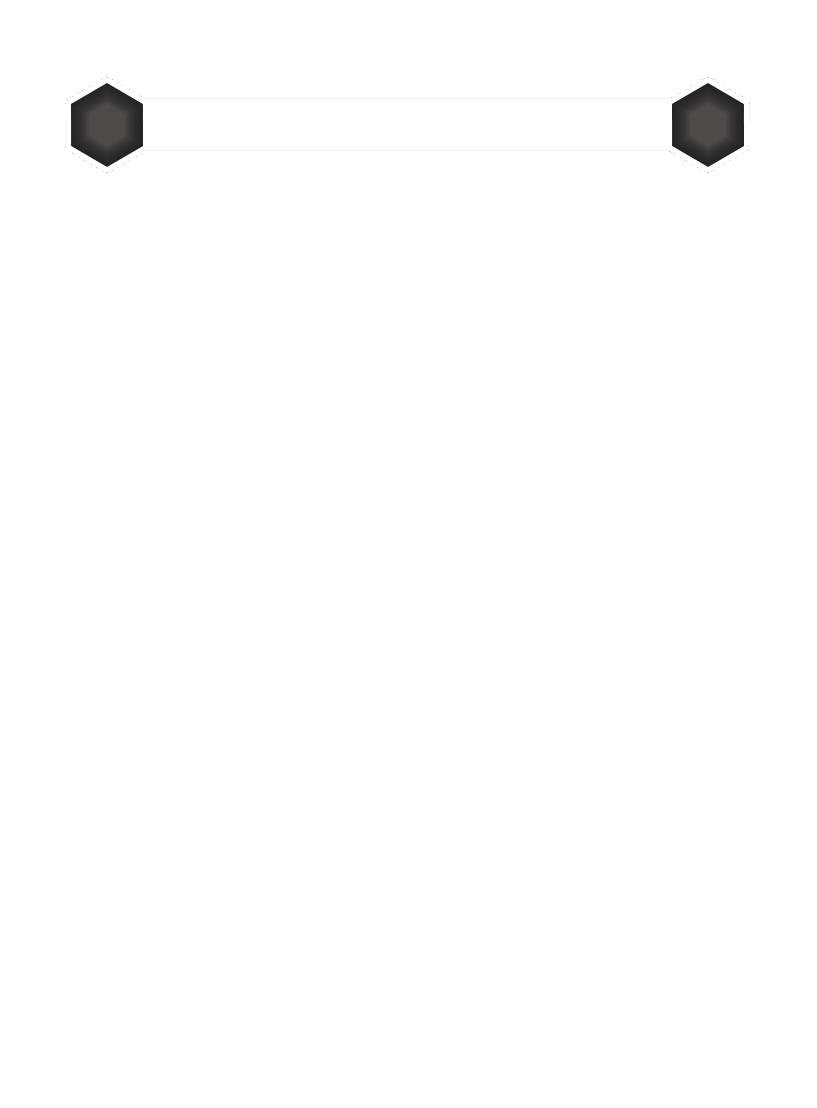
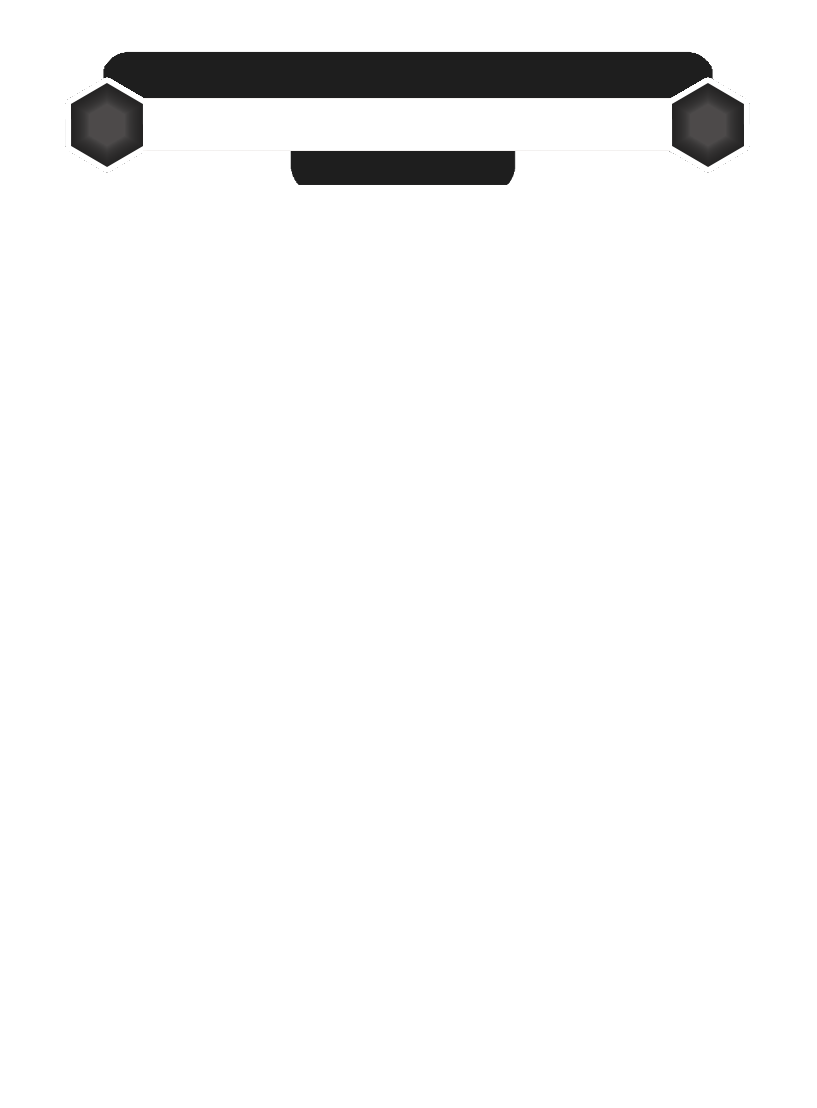
Updated card layout, added summary

Changed region(s): [[0.1224, 0.0307, 0.8874, 0.0921], [0.3366, 0.1227, 0.6426, 0.1841]]

diff --git a/Card Maker/Screens/MainWindow.xaml b/Card Maker/Screens/MainWindow.xaml
@@ -20,12 +20,12 @@
         </GroupBox>
         <GroupBox Header="Critical Effects" Margin="10,0,0,46" HorizontalAlignment="Left" Width="234" Height="212" VerticalAlignment="Bottom" FontWeight="Bold">
             <Grid>
-                <Label Content="Critical Success" HorizontalAlignment="Left" Margin="10,10,0,0" VerticalAlignment="Top" Padding="5,0,5,5" FontWeight="Normal"/>
-                <TextBox x:Name="tbCriticalSucces" Height="23" Margin="10,36,10,0" TextWrapping="Wrap" VerticalAlignment="Top" SpellCheck.IsEnabled="True" Padding="0,0,0,5" FontWeight="Normal" TextChanged="tbCriticalSucces_TextChanged" TabIndex="6"/>
-                <Label Content="Critical Failure" HorizontalAlignment="Left" Margin="10,64,0,0" VerticalAlignment="Top" Padding="5,0,5,5" FontWeight="Normal"/>
-                <TextBox x:Name="tbCriticalFailure" Height="23" Margin="10,90,10,0" TextWrapping="Wrap" VerticalAlignment="Top" SpellCheck.IsEnabled="True" Padding="0,0,0,5" FontWeight="Normal" TextChanged="tbCriticalFailure_TextChanged" TabIndex="7"/>
-                <ComboBox x:Name="cbbCritIcons" HorizontalAlignment="Left" Margin="10,144,0,0" VerticalAlignment="Top" Width="202" Padding="6,3,5,5" FontWeight="Normal" SelectionChanged="cbbCritIcons_SelectionChanged" TabIndex="8"/>
-                <Label Content="Icon(s)" HorizontalAlignment="Left" Margin="10,118,0,0" VerticalAlignment="Top" Padding="5,0,5,5" FontWeight="Normal"/>
+                <Label x:Name="lbFirstBar" Content="First Bar" HorizontalAlignment="Left" Margin="10,64,0,0" VerticalAlignment="Top" Padding="5,0,5,5" FontWeight="Normal"/>
+                <TextBox x:Name="tbFirstBar" Height="23" Margin="10,90,10,0" TextWrapping="Wrap" VerticalAlignment="Top" SpellCheck.IsEnabled="True" Padding="0,0,0,5" FontWeight="Normal" TextChanged="tbFirstBar_TextChanged" TabIndex="6"/>
+                <Label x:Name="lbSecondBar" Content="Second Bar" HorizontalAlignment="Left" Margin="10,118,0,0" VerticalAlignment="Top" Padding="5,0,5,5" FontWeight="Normal"/>
+                <TextBox x:Name="tbSecondBar" Height="23" Margin="10,144,10,0" TextWrapping="Wrap" VerticalAlignment="Top" SpellCheck.IsEnabled="True" Padding="0,0,0,5" FontWeight="Normal" TextChanged="tbSecondBar_TextChanged" TabIndex="7"/>
+                <ComboBox x:Name="cbbCritIcons" HorizontalAlignment="Left" Margin="10,35,0,0" VerticalAlignment="Top" Width="202" Padding="6,3,5,5" FontWeight="Normal" SelectionChanged="cbbCritIcons_SelectionChanged" TabIndex="8"/>
+                <Label Content="Effect Type" HorizontalAlignment="Left" Margin="10,9,0,0" VerticalAlignment="Top" Padding="5,0,5,5" FontWeight="Normal"/>
             </Grid>
         </GroupBox>
         <GroupBox Header="Roll Type" HorizontalAlignment="Left" Height="149" Margin="10,0,0,263" VerticalAlignment="Bottom" Width="234" FontWeight="Bold">
@@ -38,7 +38,7 @@
         </GroupBox>
         <GroupBox Header="Card Text" HorizontalAlignment="Left" Margin="10,10,0,417" Width="390" FontWeight="Bold">
             <Grid>
-                <TextBox x:Name="tbDescription" TabIndex="1" Margin="10,90,10,117" TextWrapping="Wrap" AcceptsReturn="True" Padding="0,0,0,5" FontWeight="Normal" TextChanged="tbDescription_TextChanged"/>
+                <TextBox x:Name="tbDescription" TabIndex="1" Margin="10,90,10,171" TextWrapping="Wrap" AcceptsReturn="True" Padding="0,0,0,5" FontWeight="Normal" TextChanged="tbDescription_TextChanged"/>
                 <Label Content="Description" HorizontalAlignment="Left" Margin="10,64,0,0" VerticalAlignment="Top" Padding="5,0,5,5" FontWeight="Normal"/>
                 <TextBox x:Name="tbRollTarget" Margin="10,0,10,63" TabIndex="2" TextWrapping="Wrap" AcceptsReturn="True" Height="23" VerticalAlignment="Bottom" Padding="0,0,0,5" FontWeight="Normal" TextChanged="tbRollTarget_TextChanged"/>
                 <ComboBox x:Name="cbbPhase" Margin="10,0,10,10" Height="22" VerticalAlignment="Bottom" Padding="6,3,5,5" TabIndex="3"  FontWeight="Normal" SelectionChanged="cbbPhase_SelectionChanged"/>
@@ -46,6 +46,8 @@
                 <Label Content="Phase" HorizontalAlignment="Left" Margin="10,0,0,37" Padding="5,0,5,5" Height="21" VerticalAlignment="Bottom" FontWeight="Normal"/>
                 <TextBox x:Name="tbCardName" TabIndex="0" Margin="10,36,10,0" TextWrapping="Wrap" AcceptsReturn="True" Padding="0,0,0,5" Height="23" VerticalAlignment="Top" FontWeight="Normal" TextChanged="tbCardName_TextChanged"/>
                 <Label Content="Card Name" HorizontalAlignment="Left" Margin="10,10,0,0" VerticalAlignment="Top" Padding="5,0,5,5" FontWeight="Normal"/>
+                <Label Content="Summary" HorizontalAlignment="Left" Margin="10,183,0,0" VerticalAlignment="Top" Padding="5,0,5,5" FontWeight="Normal"/>
+                <TextBox x:Name="tbSummary" TabIndex="0" Margin="10,209,10,0" TextWrapping="Wrap" AcceptsReturn="True" Padding="0,0,0,5" Height="23" VerticalAlignment="Top" FontWeight="Normal" TextChanged="tbSummary_TextChanged"/>
             </Grid>
         </GroupBox>
         <GroupBox Header="Background" Height="101" Margin="405,10,16,0" VerticalAlignment="Top" FontWeight="Bold">

diff --git a/Card Maker/Screens/MainWindow.xaml.cs b/Card Maker/Screens/MainWindow.xaml.cs
@@ -71,7 +71,7 @@ namespace Card_Maker
 
         private void SetUpCritIcons()
         {
-            foreach (string icons in Enum.GetNames(typeof(CritIcon)))
+            foreach (string icons in Enum.GetNames(typeof(CritBar)))
             {
                 cbbCritIcons.Items.Add(icons);
             }
@@ -187,25 +187,22 @@ namespace Card_Maker
                 graphics.DrawImage(Properties.Resources.CardFrame, 0, 0, cardWidth, cardHeight);
 
                 // Draw Critbar
-                if (!string.IsNullOrWhiteSpace(tbCriticalSucces.Text) ||
-                    !string.IsNullOrWhiteSpace(tbCriticalFailure.Text))
+                if (!string.IsNullOrWhiteSpace(tbFirstBar.Text) ||
+                    !string.IsNullOrWhiteSpace(tbSecondBar.Text))
                 {
-                    graphics.DrawImage(Properties.Resources.CritBar, 0, 0, cardWidth, cardHeight);
-
                     switch (cbbCritIcons.SelectedIndex)
                     {
-                        case (int)CritIcon.D6:
-                            graphics.DrawImage(Properties.Resources.D6Crit, 0, 0, cardWidth, cardHeight);
+                        case (int)CritBar.D6:
+                            graphics.DrawImage(Properties.Resources.CritD6Bar, 0, 0, cardWidth, cardHeight);
                             break;
-                        case (int)CritIcon.Bullseye:
-                            graphics.DrawImage(Properties.Resources.CritIcon, 0, 0, cardWidth, cardHeight);
+                        case (int)CritBar.Positive:
+                            graphics.DrawImage(Properties.Resources.CritGoodBar, 0, 0, cardWidth, cardHeight);
                             break;
-                        case (int)CritIcon.Cross:
-                            graphics.DrawImage(Properties.Resources.XIcon, 0, 0, cardWidth, cardHeight);
+                        case (int)CritBar.Negative:
+                            graphics.DrawImage(Properties.Resources.CritBadBar, 0, 0, cardWidth, cardHeight);
                             break;
-                        case (int)CritIcon.BullseyeAndCross:
-                            graphics.DrawImage(Properties.Resources.CritIcon, 0, 0, cardWidth, cardHeight);
-                            graphics.DrawImage(Properties.Resources.XIcon, 0, 0, cardWidth, cardHeight);
+                        case (int)CritBar.Both:
+                            graphics.DrawImage(Properties.Resources.CritBothBar, 0, 0, cardWidth, cardHeight);
                             break;
                     }
                 }
@@ -242,6 +239,16 @@ namespace Card_Maker
                 }
                 catch { }
 
+                if (!string.IsNullOrWhiteSpace(cardInfo.Summary))
+                {
+                    using (Font NerisBig = new Font("Conthrax Sb", 14, System.Drawing.FontStyle.Bold))
+                    {
+                        SizeF PhaseSize = graphics.MeasureString(SplitCamelCaseExtension.SplitCamelCase(cardInfo.Summary), NerisBig, 817);
+                        graphics.DrawString(SplitCamelCaseExtension.SplitCamelCase(cardInfo.Summary), NerisBig, System.Drawing.Brushes.Gray,
+                            new PointF(cardWidth / 2 - PhaseSize.Width / 2, 62));
+                    }
+                }
+
                 using (Font MainHeading = new Font("Conthrax Sb", 27))
                 {
                     SizeF titleSize = graphics.MeasureString(cardInfo.Name, MainHeading, 500);
@@ -261,14 +268,17 @@ namespace Card_Maker
                     }
                 }
 
-                using (Font NerisBig = new Font("Conthrax Sb", 20, System.Drawing.FontStyle.Regular))
+                using (Font NerisBig = new Font("Conthrax Sb", 12, System.Drawing.FontStyle.Regular))
                 {
                     SizeF PhaseSize = graphics.MeasureString(
     SplitCamelCaseExtension.SplitCamelCase(Enum.GetName(typeof(Phase), cardInfo.Phase)), NerisBig, 500);
                     graphics.DrawString(
                         SplitCamelCaseExtension.SplitCamelCase(Enum.GetName(typeof(Phase), cardInfo.Phase)), NerisBig,
-                        System.Drawing.Brushes.Orange, new PointF(cardWidth / 2 - PhaseSize.Width / 2, 55));
+                        System.Drawing.Brushes.Orange, new PointF(cardWidth / 2 - PhaseSize.Width / 2, 160));
+                }
 
+                using (Font NerisBig = new Font("Conthrax Sb", 20, System.Drawing.FontStyle.Regular))
+                {
                     SizeF rollTargetSize = graphics.MeasureString(tbRollTarget.Text, NerisBig, 500);
                     graphics.DrawString(cardInfo.RollTarget, NerisBig, System.Drawing.Brushes.Orange,
                         new PointF(cardWidth / 2 - rollTargetSize.Width / 2, 585));
@@ -282,13 +292,28 @@ namespace Card_Maker
 
                 using (Font Critical = new Font("Neris Black", 24))
                 {
-                    graphics.DrawString(cardInfo.CriticalSuccess, Critical, System.Drawing.Brushes.White,
-                        new PointF(125, 985));
+                    switch (currentCard.CritIcon)
+                    {
+                        case CritBar.Positive:
+                            graphics.DrawString(cardInfo.CriticalSuccess, Critical, System.Drawing.Brushes.White,
+                                new PointF(125, 1000));
+                            break;
+                        case CritBar.Negative:
+                            graphics.DrawString(cardInfo.CriticalFailure, Critical, System.Drawing.Brushes.White,
+                                new PointF(125, 1000));
+                            break;
+                        case CritBar.Both:
+                            graphics.DrawString(cardInfo.CriticalSuccess, Critical, System.Drawing.Brushes.White,
+                                new PointF(125, 932));
 
-                    //Align right Critical Fail
-                    SizeF critFailSize = graphics.MeasureString(cardInfo.CriticalFailure, Critical, 500);
-                    graphics.DrawString(cardInfo.CriticalFailure, Critical, System.Drawing.Brushes.White,
-                        new PointF(690 - critFailSize.Width, 985));
+                            graphics.DrawString(cardInfo.CriticalFailure, Critical, System.Drawing.Brushes.White,
+                                new PointF(125, 1000));
+                            break;
+                        case CritBar.D6:
+                            graphics.DrawString(cardInfo.CriticalSuccess, Critical, System.Drawing.Brushes.White,
+                                new PointF(125, 1000));
+                            break;
+                    }
                 }
 
                 SaveFile(card);
@@ -457,6 +482,13 @@ namespace Card_Maker
             StartTimer();
         }
 
+
+        private void tbSummary_TextChanged(object sender, TextChangedEventArgs e)
+        {
+            currentCard.Summary = tbSummary.Text;
+            StartTimer();
+        }
+
         private void StartTimer()
         {
             currentInactiveTime = inactiveTime;
@@ -503,19 +535,48 @@ namespace Card_Maker
 
         private void cbbCritIcons_SelectionChanged(object sender, SelectionChangedEventArgs e)
         {
-            currentCard.CritIcon = (CritIcon)Enum.Parse(typeof(CritIcon), cbbCritIcons.SelectedItem.ToString());
+            currentCard.CritIcon = (CritBar)Enum.Parse(typeof(CritBar), cbbCritIcons.SelectedItem.ToString());
+
+            switch (currentCard.CritIcon)
+            {
+                case CritBar.Positive:
+                    lbFirstBar.IsEnabled = true;
+                    tbFirstBar.IsEnabled = true;
+                    tbSecondBar.IsEnabled = false;
+                    tbSecondBar.IsEnabled = false;
+                    break;
+                case CritBar.Negative:
+                    lbFirstBar.IsEnabled = false;
+                    tbFirstBar.IsEnabled = false;
+                    tbSecondBar.IsEnabled = true;
+                    tbSecondBar.IsEnabled = true;
+                    break;
+                case CritBar.Both:
+                    lbFirstBar.IsEnabled = true;
+                    tbFirstBar.IsEnabled = true;
+                    tbSecondBar.IsEnabled = true;
+                    tbSecondBar.IsEnabled = true;
+                    break;
+                case CritBar.D6:
+                    lbFirstBar.IsEnabled = true;
+                    tbFirstBar.IsEnabled = true;
+                    tbSecondBar.IsEnabled = false;
+                    tbSecondBar.IsEnabled = false;
+                    break;
+            }
+
             DrawCard(currentCard);
         }
 
-        private void tbCriticalFailure_TextChanged(object sender, TextChangedEventArgs e)
+        private void tbFirstBar_TextChanged(object sender, TextChangedEventArgs e)
         {
-            currentCard.CriticalFailure = tbCriticalFailure.Text;
+            currentCard.CriticalSuccess = tbFirstBar.Text;
             StartTimer();
         }
 
-        private void tbCriticalSucces_TextChanged(object sender, TextChangedEventArgs e)
+        private void tbSecondBar_TextChanged(object sender, TextChangedEventArgs e)
         {
-            currentCard.CriticalSuccess = tbCriticalSucces.Text;
+            currentCard.CriticalFailure = tbSecondBar.Text;
             StartTimer();
         }
 
@@ -579,12 +640,13 @@ namespace Card_Maker
         private void UpdateFields(Card card)
         {
             tbCardName.Text = card.Name;
-            tbCriticalSucces.Text = card.CriticalSuccess;
-            tbCriticalFailure.Text = card.CriticalFailure;
+            tbFirstBar.Text = card.CriticalSuccess;
+            tbSecondBar.Text = card.CriticalFailure;
             tbRollTarget.Text = card.RollTarget;
             tbRollType.Text = card.RollText;
             tbPath.Text = card.BackgroundPath;
             tbDescription.Text = card.Description;
+            tbSummary.Text = card.Summary;
             SlScale.Value = card.Scale;
 
             cbbCritIcons.SelectedIndex = (int)card.CritIcon;

diff --git a/Card Maker/Properties/Resources.Designer.cs b/Card Maker/Properties/Resources.Designer.cs
@@ -93,9 +93,49 @@ namespace Card_Maker.Properties {
         /// <summary>
         ///   Looks up a localized resource of type System.Drawing.Bitmap.
         /// </summary>
+        internal static System.Drawing.Bitmap CritBadBar {
+            get {
+                object obj = ResourceManager.GetObject("CritBadBar", resourceCulture);
+                return ((System.Drawing.Bitmap)(obj));
+            }
+        }
+        
+        /// <summary>
+        ///   Looks up a localized resource of type System.Drawing.Bitmap.
+        /// </summary>
         internal static System.Drawing.Bitmap CritBar {
             get {
                 object obj = ResourceManager.GetObject("CritBar", resourceCulture);
+                return ((System.Drawing.Bitmap)(obj));
+            }
+        }
+        
+        /// <summary>
+        ///   Looks up a localized resource of type System.Drawing.Bitmap.
+        /// </summary>
+        internal static System.Drawing.Bitmap CritBothBar {
+            get {
+                object obj = ResourceManager.GetObject("CritBothBar", resourceCulture);
+                return ((System.Drawing.Bitmap)(obj));
+            }
+        }
+        
+        /// <summary>
+        ///   Looks up a localized resource of type System.Drawing.Bitmap.
+        /// </summary>
+        internal static System.Drawing.Bitmap CritD6Bar {
+            get {
+                object obj = ResourceManager.GetObject("CritD6Bar", resourceCulture);
+                return ((System.Drawing.Bitmap)(obj));
+            }
+        }
+        
+        /// <summary>
+        ///   Looks up a localized resource of type System.Drawing.Bitmap.
+        /// </summary>
+        internal static System.Drawing.Bitmap CritGoodBar {
+            get {
+                object obj = ResourceManager.GetObject("CritGoodBar", resourceCulture);
                 return ((System.Drawing.Bitmap)(obj));
             }
         }

diff --git a/Card Maker/Models/Card.cs b/Card Maker/Models/Card.cs
@@ -12,6 +12,7 @@ namespace Card_Maker.Models {
         public string Name { get; set; }
         public string Filename { get; set; }
         public string Description { get; set; }
+        public string Summary { get; set; }
 
         public string BackgroundPath { get; set; }
         public PointF BackgroundOffset { get; set; }
@@ -27,7 +28,7 @@ namespace Card_Maker.Models {
 
         public List<Role> Roles { get; set; }
 
-        public CritIcon CritIcon { get; set; }
+        public CritBar CritIcon { get; set; }
         public string CriticalSuccess { get; set; }
         public string CriticalFailure { get; set; }
 

diff --git a/Card Maker/Enums/CritIcon.cs b/Card Maker/Enums/CritIcon.cs
@@ -1,8 +1,10 @@
-namespace Card_Maker.Enums {
-    public enum CritIcon {
+namespace Card_Maker.Enums
+{
+    public enum CritBar
+    {
         D6,
-        Bullseye,
-        Cross,
-        BullseyeAndCross
+        Positive,
+        Negative,
+        Both
     }
 }
